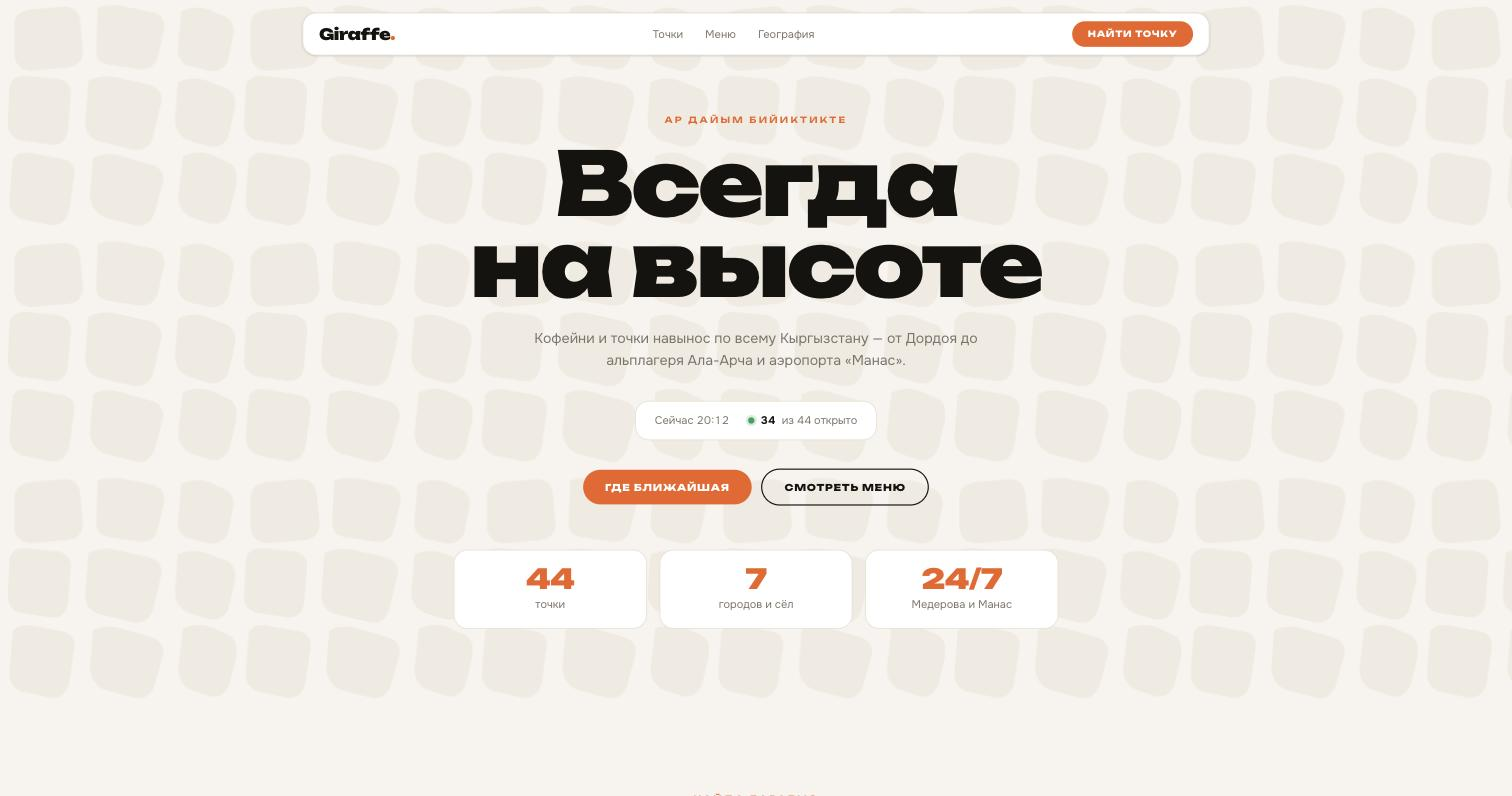
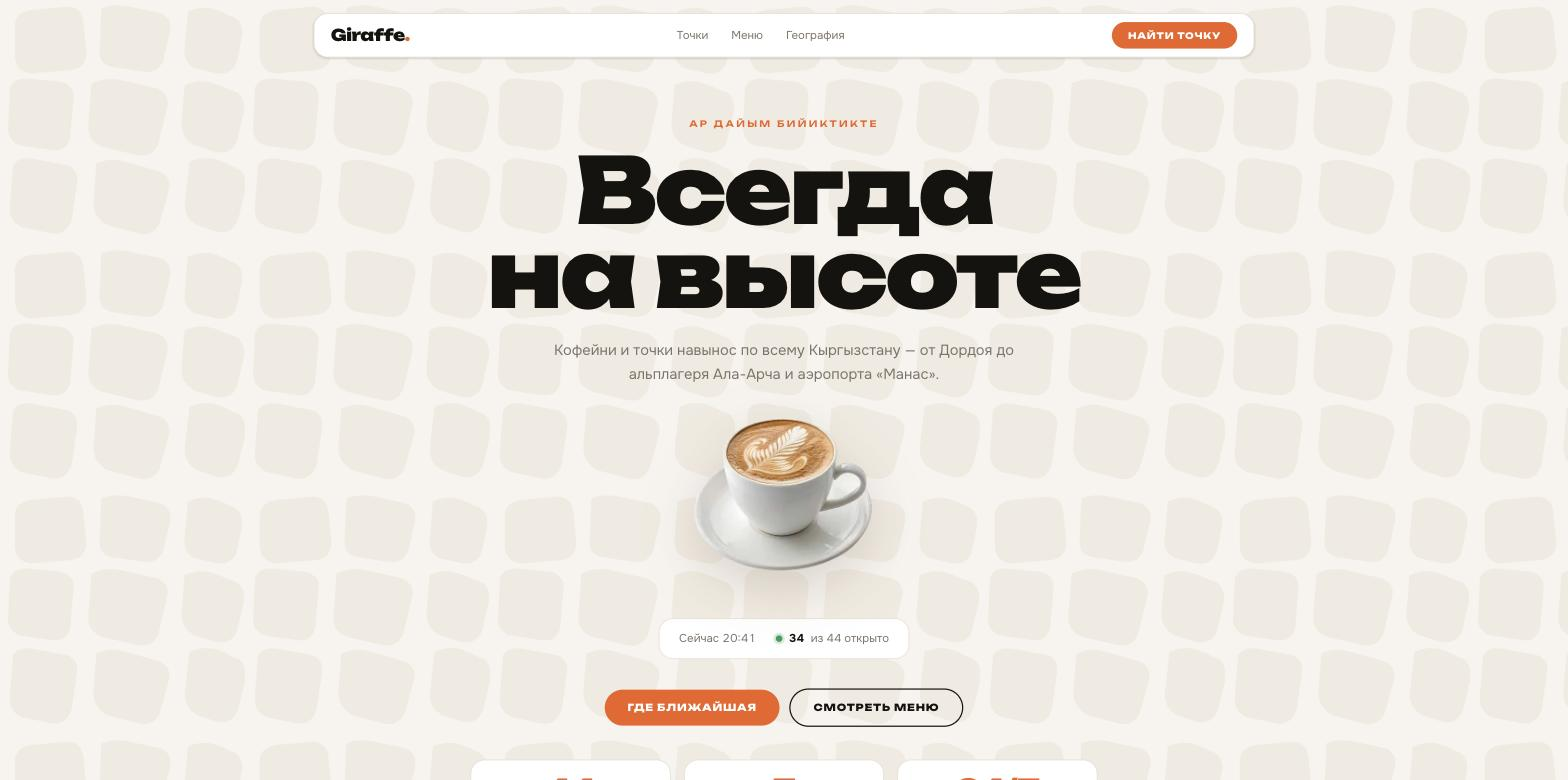
Съёмка вместо сухого текста: вырезы блюд с альфой
Сайт был текстовым — вернулся к сохранённому флоу: брать готовые
ассеты и отбирать их глазами через контакт-лист.

- из PDF-меню извлечено 219 объектов; картинка и её smask лежат
  порознь, собрал RGBA обратно через PIL — получилось 34 выреза,
  после отбора по контакт-листу в дело пошли 12
- десертам маски не было: knockout заливкой от краёв (knockout.py
  из scroll-world)
- герой получил их капучино, добавлена секция-витрина из 5 плиток
  категорий, фото в меню стало вырезом без круглой маски
- подписи в витрине только категорийные: сверить каждый кадр с
  конкретной позицией по PDF нельзя, а врать в подписи к чужому
  фото нельзя тем более
- вся съёмка 356 КБ в WebP

diff --git a/src/App.jsx b/src/App.jsx
@@ -4,15 +4,21 @@ import Lenis from 'lenis'
 import { LOCATIONS, KIND, status, fmt, telHref, telText } from './locations.js'
 import { MENU, ADDONS } from './menu.js'
 
-/* Их собственная съёмка, вырезанная из официального PDF-меню сети. */
+/* Их собственная съёмка из официального PDF-меню — вырезы с альфа-каналом
+   (в PDF картинка и её маска лежат отдельно, собрал обратно в RGBA).
+   Поэтому блюда «летают» по кремовому фону без рамок и плашек. */
+const CUT = (n) => `/cut/${n}.webp`
+
 const DISH = {
-  coffee: '/dish/kasha.jpg',
-  matcha: '/dish/hummus.jpg',
-  breakfast: '/dish/omlet.jpg',
-  burger: '/dish/burger.jpg',
-  sandwich: '/dish/croissant.jpg',
-  dessert: '/dish/traifl.jpg',
+  coffee: 'latte', matcha: 'latte', breakfast: 'benedict',
+  burger: 'burger', sandwich: 'croissant', dessert: 'dessert',
 }
+
+/* Витрина: плитки категорий с их же съёмкой. Подписи — только названия
+   категорий и минимальная цена, посчитанная по данным меню. Конкретные
+   блюда не подписываю: сверить каждый кадр с позицией по PDF я не могу,
+   а врать в подписи к чужому фото нельзя. */
+const SHOWCASE = ['coffee', 'breakfast', 'burger', 'sandwich', 'dessert']
 
 /* ── Живые часы: раз в 30 сек, чтобы статусы точек не врали ─────────────── */
 function useNow() {
@@ -63,10 +69,14 @@ function Hero({ now, openCount }) {
           до альплагеря Ала-Арча и аэропорта «Манас».
         </p>
 
+        {/* Их собственный кадр без фона — держит центр композиции. */}
+        <img src={CUT('latte')} alt="Капучино Giraffe Coffee" width="720" height="720"
+          className="mt-4 w-[clamp(170px,26vw,240px)] drop-shadow-[0_22px_32px_rgba(80,55,30,.18)]" />
+
         {/* Живой статус сети — то, чего нет ни в инстаграме, ни в taplink.
             Намеренно без анимации входа: это ключевая информация страницы,
             она не должна зависеть от того, доиграл ли твин. */}
-        <div className="card mt-9 flex flex-wrap items-center justify-center gap-x-6 gap-y-2 px-6 py-3.5 text-sm">
+        <div className="card mt-7 flex flex-wrap items-center justify-center gap-x-6 gap-y-2 px-6 py-3.5 text-sm">
           <span className="tabular-nums text-[color:var(--muted)]">Сейчас {clock(now)}</span>
           <span className="flex items-center gap-2">
             <i className="dot dot-on" />
@@ -82,7 +92,7 @@ function Hero({ now, openCount }) {
           <a href="#menu" className="btn btn-ghost w-full rounded-full px-7 py-3.5 text-center text-xs sm:w-auto">Смотреть меню</a>
         </div>
 
-        <ul className="mt-14 grid w-full max-w-3xl grid-cols-3 gap-4">
+        <ul className="mt-10 grid w-full max-w-3xl grid-cols-3 gap-4">
           {[
             { n: LOCATIONS.length, l: 'точки' },
             { n: 7, l: 'городов и сёл' },
@@ -228,8 +238,7 @@ function Points({ now }) {
 }
 
 /* ── Меню ───────────────────────────────────────────────────────────────── */
-function Menu() {
-  const [cat, setCat] = useState(MENU[0].id)
+function Menu({ cat, setCat }) {
   const active = MENU.find((c) => c.id === cat)
   const pic = DISH[cat]
 
@@ -309,13 +318,9 @@ function Menu() {
             {/* Фото блюда меняется вместе с категорией. Смена — через CSS-переход
                 по key, без анимации прозрачности на входе: снимок обязан быть
                 виден сразу. */}
-            {/* Небольшой зум внутрь круга: в исходных кадрах меню по краям идут
-                гнутые подписи, маска их срезает. */}
-            <div className="aspect-square w-full overflow-hidden rounded-full"
-              style={{ boxShadow: '0 30px 60px -35px rgba(60,40,20,.55)' }}>
-              <img key={pic} src={pic} alt=""
-                className="h-full w-full scale-115 object-cover" />
-            </div>
+            {/* Вырез с альфой — без рамки и круга, блюдо лежит прямо на фоне. */}
+            <img key={pic} src={CUT(pic)} alt="" width="720" height="720"
+              className="mx-auto w-full max-w-[300px] drop-shadow-[0_26px_34px_rgba(80,55,30,.2)]" />
 
             <div className="card p-6">
               <div className="tag text-[12px]">Добавки</div>
@@ -333,6 +338,31 @@ function Menu() {
           </div>
         </div>
       </div>
+    </section>
+  )
+}
+
+/* ── Витрина: визуальный вход в меню ────────────────────────────────────── */
+function Showcase({ onPick }) {
+  return (
+    <section className="mx-auto w-full max-w-6xl px-5 pb-4 md:px-8">
+      <ul className="grid grid-cols-2 gap-4 sm:grid-cols-3 lg:grid-cols-5">
+        {SHOWCASE.map((id) => {
+          const c = MENU.find((m) => m.id === id)
+          const from = Math.min(...c.items.flatMap((i) => i.p))
+          return (
+            <li key={id}>
+              <button onClick={() => onPick(id)}
+                className="group flex w-full flex-col items-center rounded-2xl px-2 py-4 text-center transition-colors hover:bg-white">
+                <img src={CUT(DISH[id])} alt="" width="720" height="720" loading="lazy"
+                  className="h-28 w-auto object-contain drop-shadow-[0_16px_20px_rgba(80,55,30,.16)] transition-transform duration-300 group-hover:-translate-y-1.5 md:h-32" />
+                <span className="tag mt-3 text-[11px]">{c.ru}</span>
+                <span className="mt-1 text-xs text-[color:var(--muted)]">от {from} с</span>
+              </button>
+            </li>
+          )
+        })}
+      </ul>
     </section>
   )
 }
@@ -433,6 +463,13 @@ function Footer() {
 export default function App() {
   const now = useNow()
   const openCount = useMemo(() => LOCATIONS.filter((l) => status(l, now).open).length, [now])
+  const [cat, setCat] = useState(MENU[0].id)
+
+  /* Клик по витрине переключает категорию и уводит в меню. */
+  const pickCategory = (id) => {
+    setCat(id)
+    document.getElementById('menu')?.scrollIntoView({ behavior: 'smooth', block: 'start' })
+  }
 
   useEffect(() => {
     if (window.matchMedia('(prefers-reduced-motion: reduce)').matches) return
@@ -454,8 +491,9 @@ export default function App() {
       <Header />
       <main>
         <Hero now={now} openCount={openCount} />
+        <Showcase onPick={pickCategory} />
         <Points now={now} />
-        <Menu />
+        <Menu cat={cat} setCat={setCat} />
         <Reach />
       </main>
       <Footer />

diff --git a/README.md b/README.md
@@ -41,7 +41,17 @@ export function status(loc, now = new Date()) {
 
 Шесть категорий — кофе, матча, завтраки, бургеры, сэндвичи, десерты. Двуязычное, как в оригинале: кыргызская строка показывается только когда реально отличается от русской. Цены — из официального PDF-меню сети, в сомах; у напитков три значения, это размеры 250 / 350 / 450 мл.
 
-Фотографии блюд — их собственная съёмка, вырезанная из того же меню.
+![Витрина](docs/04-showcase.jpg)
+
+Фотографии блюд — их собственная съёмка **с прозрачным фоном**. В PDF картинка и её альфа-маска лежат отдельными объектами, поэтому сначала я вытащил всё через `pdfimages`, а потом собрал RGBA обратно:
+
+```python
+im = Image.open(base).convert('RGB')
+al = Image.open(mask).convert('L').resize(im.size)   # smask = альфа
+im.putalpha(al)
+```
+
+Из 219 извлечённых объектов пригодными оказались 34, после отбора по контакт-листу в дело пошли 12. Десерты лежали в PDF без маски — им сделал knockout заливкой от краёв (`knockout.py` из того же scroll-world). Итог: блюда «летают» по кремовому фону без рамок, плашек и круглых масок — 356 КБ на всю съёмку в WebP.
 
 ---
 
